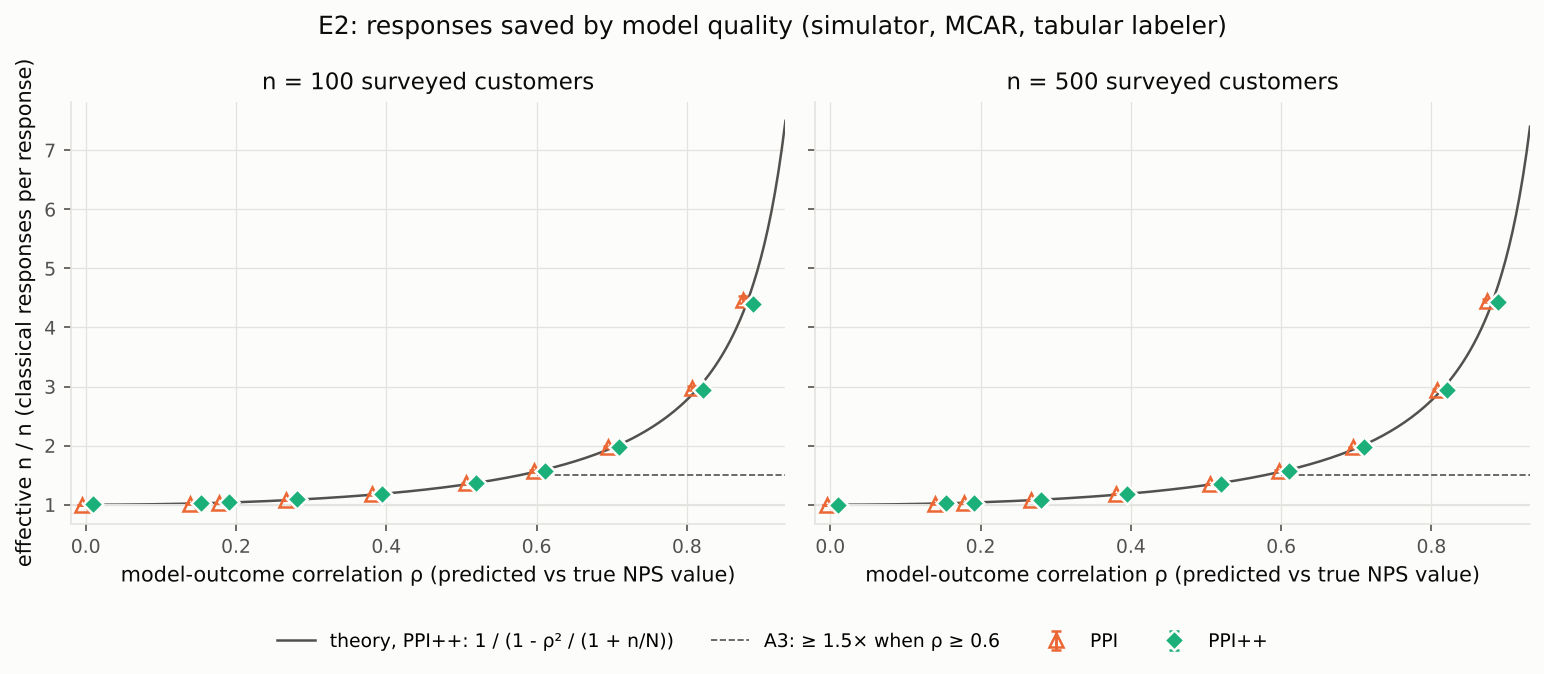
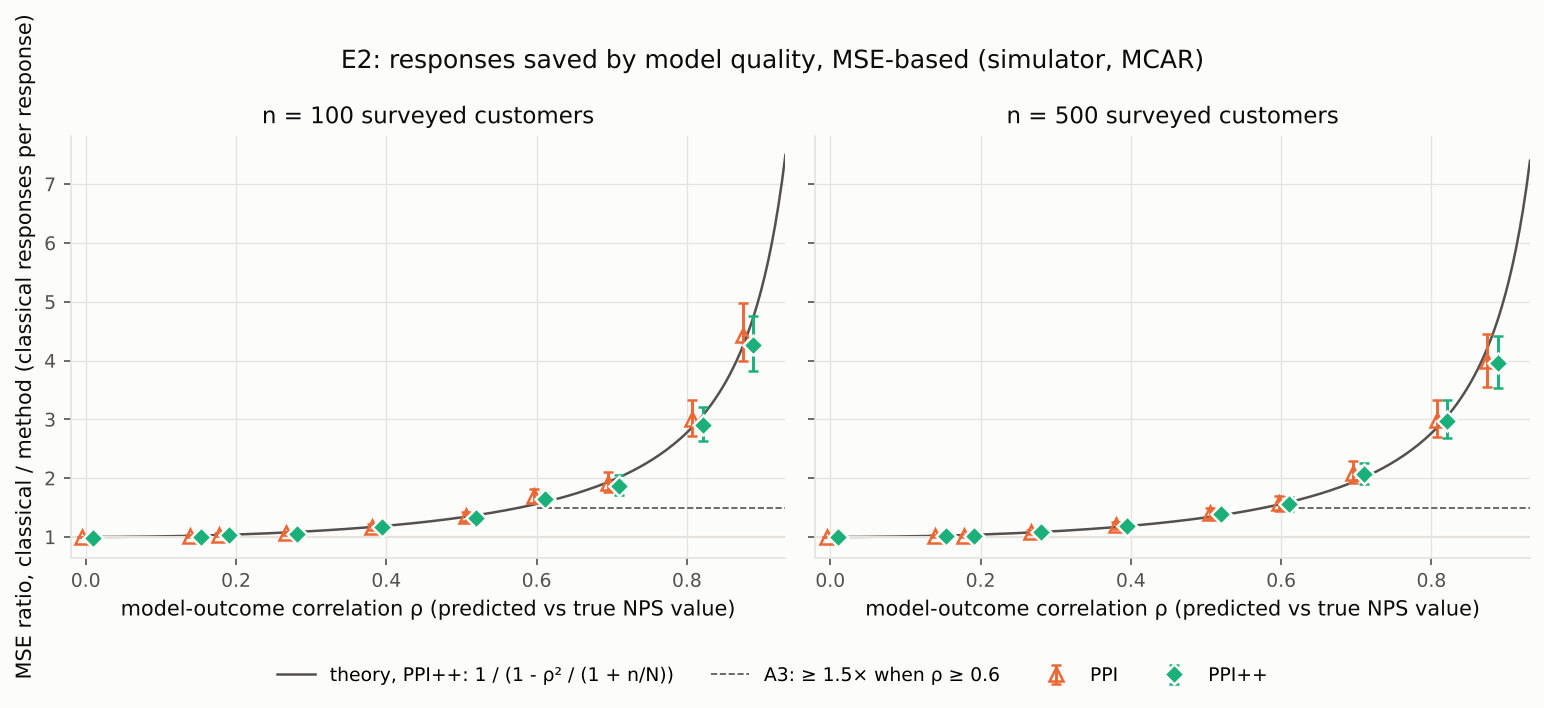
Rerun E2 with A3 judged on MSE and record session 2 status
Claude-Session: https://claude.ai/code/session_01Q6u89m74gV2ZPQ88GmbkB6

diff --git a/docs/results/e02_model_quality_summary.md b/docs/results/e02_model_quality_summary.md
@@ -1,46 +1,46 @@
 # e02_model_quality summary
 
-Generated by `experiments/e02_model_quality.py` from `configs/e02_model_quality.yaml` (1000 replicates, seed 20261013). Effective n / n (widths) = (mean classical width / mean method width)², the docs/PLAN.md definition: the precision each method reports. MSE ratio = MSE_classical / MSE_method: the precision achieved. 95% paired-bootstrap intervals over replicates.
+Generated by `experiments/e02_model_quality.py` from `configs/e02_model_quality.yaml` (1000 replicates, seed 20261013). MSE ratio = MSE_classical / MSE_method: the precision achieved, and the measure A3 is judged on. Effective n / n (widths) = (mean classical width / mean method width)², the docs/PLAN.md n_eff: the precision each method reports (information only for A3). 95% paired-bootstrap intervals over replicates.
 
-| n | signal | ρ | estimator | effective n / n (widths) [95%] | MSE ratio [95%] | theory (PPI++) | theory within MC: widths / MSE | ≥1.5× (ρ ≥ 0.6) | coverage |
-|---|---|---|---|---|---|---|---|---|---|
-| 100 | 0.00 | 0.003 | ppi | 0.999 [0.999, 1.000] | 0.999 [0.997, 1.002] | 1.000 |  |  | 0.888 |
-| 100 | 0.00 | 0.003 | ppi_pp | 1.007 [1.006, 1.008] | 0.983 [0.969, 0.995] | 1.000 | NO / NO |  | 0.883 |
-| 100 | 0.00 | 0.146 | ppi | 1.021 [1.019, 1.022] | 1.016 [1.002, 1.030] | 1.022 |  |  | 0.881 |
-| 100 | 0.00 | 0.146 | ppi_pp | 1.029 [1.027, 1.031] | 1.000 [0.979, 1.022] | 1.022 | NO / yes |  | 0.886 |
-| 100 | 0.15 | 0.184 | ppi | 1.032 [1.030, 1.034] | 1.042 [1.022, 1.064] | 1.035 |  |  | 0.900 |
-| 100 | 0.15 | 0.184 | ppi_pp | 1.041 [1.039, 1.043] | 1.032 [1.007, 1.060] | 1.035 | NO / yes |  | 0.895 |
-| 100 | 0.30 | 0.274 | ppi | 1.081 [1.077, 1.085] | 1.061 [1.028, 1.093] | 1.081 |  |  | 0.896 |
-| 100 | 0.30 | 0.274 | ppi_pp | 1.090 [1.086, 1.093] | 1.052 [1.018, 1.086] | 1.081 | NO / yes |  | 0.892 |
-| 100 | 0.45 | 0.388 | ppi | 1.175 [1.169, 1.181] | 1.173 [1.120, 1.226] | 1.177 |  |  | 0.886 |
-| 100 | 0.45 | 0.388 | ppi_pp | 1.183 [1.177, 1.188] | 1.162 [1.108, 1.214] | 1.177 | NO / yes |  | 0.881 |
-| 100 | 0.60 | 0.513 | ppi | 1.363 [1.354, 1.372] | 1.349 [1.273, 1.432] | 1.357 |  |  | 0.894 |
-| 100 | 0.60 | 0.513 | ppi_pp | 1.367 [1.358, 1.376] | 1.324 [1.249, 1.409] | 1.357 | NO / yes |  | 0.885 |
-| 100 | 0.70 | 0.604 | ppi | 1.573 [1.561, 1.584] | 1.691 [1.585, 1.808] | 1.573 |  |  | 0.895 |
-| 100 | 0.70 | 0.604 | ppi_pp | 1.574 [1.562, 1.586] | 1.645 [1.543, 1.755] | 1.573 | yes / yes | yes | 0.895 |
-| 100 | 0.80 | 0.703 | ppi | 1.985 [1.967, 2.002] | 1.924 [1.763, 2.108] | 1.974 |  |  | 0.895 |
-| 100 | 0.80 | 0.703 | ppi_pp | 1.979 [1.962, 1.997] | 1.867 [1.709, 2.049] | 1.974 | yes / yes | yes | 0.889 |
-| 100 | 0.90 | 0.814 | ppi | 2.973 [2.941, 3.004] | 3.008 [2.719, 3.326] | 2.960 |  |  | 0.891 |
-| 100 | 0.90 | 0.814 | ppi_pp | 2.943 [2.912, 2.974] | 2.909 [2.632, 3.216] | 2.960 | yes / yes | yes | 0.897 |
-| 100 | 0.95 | 0.881 | ppi | 4.473 [4.420, 4.530] | 4.442 [3.993, 4.976] | 4.465 |  |  | 0.893 |
-| 100 | 0.95 | 0.881 | ppi_pp | 4.398 [4.345, 4.455] | 4.259 [3.830, 4.763] | 4.465 | NO / yes | yes | 0.891 |
-| 500 | 0.00 | 0.003 | ppi | 1.000 [1.000, 1.000] | 1.000 [0.998, 1.003] | 1.000 |  |  | 0.909 |
-| 500 | 0.00 | 0.003 | ppi_pp | 1.002 [1.002, 1.002] | 1.001 [0.995, 1.006] | 1.000 | NO / yes |  | 0.909 |
-| 500 | 0.00 | 0.146 | ppi | 1.021 [1.020, 1.021] | 1.023 [1.007, 1.038] | 1.022 |  |  | 0.894 |
-| 500 | 0.00 | 0.146 | ppi_pp | 1.023 [1.022, 1.024] | 1.023 [1.004, 1.041] | 1.022 | NO / yes |  | 0.897 |
-| 500 | 0.15 | 0.184 | ppi | 1.034 [1.033, 1.035] | 1.017 [0.997, 1.037] | 1.035 |  |  | 0.914 |
-| 500 | 0.15 | 0.184 | ppi_pp | 1.037 [1.036, 1.038] | 1.016 [0.992, 1.040] | 1.035 | NO / yes |  | 0.914 |
-| 500 | 0.30 | 0.274 | ppi | 1.079 [1.078, 1.081] | 1.088 [1.053, 1.123] | 1.081 |  |  | 0.905 |
-| 500 | 0.30 | 0.274 | ppi_pp | 1.081 [1.080, 1.083] | 1.084 [1.049, 1.121] | 1.081 | yes / yes |  | 0.905 |
-| 500 | 0.45 | 0.388 | ppi | 1.178 [1.175, 1.180] | 1.196 [1.142, 1.255] | 1.177 |  |  | 0.897 |
-| 500 | 0.45 | 0.388 | ppi_pp | 1.180 [1.177, 1.182] | 1.193 [1.137, 1.255] | 1.177 | NO / yes |  | 0.895 |
-| 500 | 0.60 | 0.513 | ppi | 1.355 [1.351, 1.359] | 1.404 [1.318, 1.491] | 1.356 |  |  | 0.906 |
-| 500 | 0.60 | 0.513 | ppi_pp | 1.356 [1.352, 1.360] | 1.392 [1.310, 1.476] | 1.356 | yes / yes |  | 0.904 |
-| 500 | 0.70 | 0.604 | ppi | 1.575 [1.569, 1.580] | 1.571 [1.449, 1.699] | 1.571 |  |  | 0.915 |
-| 500 | 0.70 | 0.604 | ppi_pp | 1.575 [1.569, 1.581] | 1.560 [1.439, 1.686] | 1.571 | yes / yes | yes | 0.912 |
-| 500 | 0.80 | 0.703 | ppi | 1.972 [1.965, 1.980] | 2.090 [1.919, 2.284] | 1.970 |  |  | 0.914 |
-| 500 | 0.80 | 0.703 | ppi_pp | 1.971 [1.964, 1.979] | 2.078 [1.904, 2.266] | 1.970 | yes / yes | yes | 0.916 |
-| 500 | 0.90 | 0.814 | ppi | 2.939 [2.925, 2.954] | 2.985 [2.692, 3.322] | 2.949 |  |  | 0.911 |
-| 500 | 0.90 | 0.814 | ppi_pp | 2.934 [2.919, 2.948] | 2.979 [2.686, 3.326] | 2.949 | NO / yes | yes | 0.911 |
-| 500 | 0.95 | 0.881 | ppi | 4.450 [4.425, 4.475] | 3.987 [3.555, 4.451] | 4.434 |  |  | 0.877 |
-| 500 | 0.95 | 0.881 | ppi_pp | 4.436 [4.411, 4.460] | 3.966 [3.542, 4.416] | 4.434 | yes / NO | yes | 0.877 |
+| n | signal | ρ | estimator | MSE ratio [95%] | effective n / n (widths) [95%] | theory (PPI++) | A3: theory within MC (MSE) | A3: MSE ratio ≥ 1.5× (ρ ≥ 0.6) | theory within MC (widths, info) | coverage |
+|---|---|---|---|---|---|---|---|---|---|---|
+| 100 | 0.00 | 0.003 | ppi | 0.999 [0.997, 1.002] | 0.999 [0.999, 1.000] | 1.000 |  |  |  | 0.888 |
+| 100 | 0.00 | 0.003 | ppi_pp | 0.983 [0.969, 0.995] | 1.007 [1.006, 1.008] | 1.000 | NO |  | NO | 0.883 |
+| 100 | 0.00 | 0.146 | ppi | 1.016 [1.002, 1.030] | 1.021 [1.019, 1.022] | 1.022 |  |  |  | 0.881 |
+| 100 | 0.00 | 0.146 | ppi_pp | 1.000 [0.979, 1.022] | 1.029 [1.027, 1.031] | 1.022 | yes |  | NO | 0.886 |
+| 100 | 0.15 | 0.184 | ppi | 1.042 [1.022, 1.064] | 1.032 [1.030, 1.034] | 1.035 |  |  |  | 0.900 |
+| 100 | 0.15 | 0.184 | ppi_pp | 1.032 [1.007, 1.060] | 1.041 [1.039, 1.043] | 1.035 | yes |  | NO | 0.895 |
+| 100 | 0.30 | 0.274 | ppi | 1.061 [1.028, 1.093] | 1.081 [1.077, 1.085] | 1.081 |  |  |  | 0.896 |
+| 100 | 0.30 | 0.274 | ppi_pp | 1.052 [1.018, 1.086] | 1.090 [1.086, 1.093] | 1.081 | yes |  | NO | 0.892 |
+| 100 | 0.45 | 0.388 | ppi | 1.173 [1.120, 1.226] | 1.175 [1.169, 1.181] | 1.177 |  |  |  | 0.886 |
+| 100 | 0.45 | 0.388 | ppi_pp | 1.162 [1.108, 1.214] | 1.183 [1.177, 1.188] | 1.177 | yes |  | NO | 0.881 |
+| 100 | 0.60 | 0.513 | ppi | 1.349 [1.273, 1.432] | 1.363 [1.354, 1.372] | 1.357 |  |  |  | 0.894 |
+| 100 | 0.60 | 0.513 | ppi_pp | 1.324 [1.249, 1.409] | 1.367 [1.358, 1.376] | 1.357 | yes |  | NO | 0.885 |
+| 100 | 0.70 | 0.604 | ppi | 1.691 [1.585, 1.808] | 1.573 [1.561, 1.584] | 1.573 |  |  |  | 0.895 |
+| 100 | 0.70 | 0.604 | ppi_pp | 1.645 [1.543, 1.755] | 1.574 [1.562, 1.586] | 1.573 | yes | yes | yes | 0.895 |
+| 100 | 0.80 | 0.703 | ppi | 1.924 [1.763, 2.108] | 1.985 [1.967, 2.002] | 1.974 |  |  |  | 0.895 |
+| 100 | 0.80 | 0.703 | ppi_pp | 1.867 [1.709, 2.049] | 1.979 [1.962, 1.997] | 1.974 | yes | yes | yes | 0.889 |
+| 100 | 0.90 | 0.814 | ppi | 3.008 [2.719, 3.326] | 2.973 [2.941, 3.004] | 2.960 |  |  |  | 0.891 |
+| 100 | 0.90 | 0.814 | ppi_pp | 2.909 [2.632, 3.216] | 2.943 [2.912, 2.974] | 2.960 | yes | yes | yes | 0.897 |
+| 100 | 0.95 | 0.881 | ppi | 4.442 [3.993, 4.976] | 4.473 [4.420, 4.530] | 4.465 |  |  |  | 0.893 |
+| 100 | 0.95 | 0.881 | ppi_pp | 4.259 [3.830, 4.763] | 4.398 [4.345, 4.455] | 4.465 | yes | yes | NO | 0.891 |
+| 500 | 0.00 | 0.003 | ppi | 1.000 [0.998, 1.003] | 1.000 [1.000, 1.000] | 1.000 |  |  |  | 0.909 |
+| 500 | 0.00 | 0.003 | ppi_pp | 1.001 [0.995, 1.006] | 1.002 [1.002, 1.002] | 1.000 | yes |  | NO | 0.909 |
+| 500 | 0.00 | 0.146 | ppi | 1.023 [1.007, 1.038] | 1.021 [1.020, 1.021] | 1.022 |  |  |  | 0.894 |
+| 500 | 0.00 | 0.146 | ppi_pp | 1.023 [1.004, 1.041] | 1.023 [1.022, 1.024] | 1.022 | yes |  | NO | 0.897 |
+| 500 | 0.15 | 0.184 | ppi | 1.017 [0.997, 1.037] | 1.034 [1.033, 1.035] | 1.035 |  |  |  | 0.914 |
+| 500 | 0.15 | 0.184 | ppi_pp | 1.016 [0.992, 1.040] | 1.037 [1.036, 1.038] | 1.035 | yes |  | NO | 0.914 |
+| 500 | 0.30 | 0.274 | ppi | 1.088 [1.053, 1.123] | 1.079 [1.078, 1.081] | 1.081 |  |  |  | 0.905 |
+| 500 | 0.30 | 0.274 | ppi_pp | 1.084 [1.049, 1.121] | 1.081 [1.080, 1.083] | 1.081 | yes |  | yes | 0.905 |
+| 500 | 0.45 | 0.388 | ppi | 1.196 [1.142, 1.255] | 1.178 [1.175, 1.180] | 1.177 |  |  |  | 0.897 |
+| 500 | 0.45 | 0.388 | ppi_pp | 1.193 [1.137, 1.255] | 1.180 [1.177, 1.182] | 1.177 | yes |  | NO | 0.895 |
+| 500 | 0.60 | 0.513 | ppi | 1.404 [1.318, 1.491] | 1.355 [1.351, 1.359] | 1.356 |  |  |  | 0.906 |
+| 500 | 0.60 | 0.513 | ppi_pp | 1.392 [1.310, 1.476] | 1.356 [1.352, 1.360] | 1.356 | yes |  | yes | 0.904 |
+| 500 | 0.70 | 0.604 | ppi | 1.571 [1.449, 1.699] | 1.575 [1.569, 1.580] | 1.571 |  |  |  | 0.915 |
+| 500 | 0.70 | 0.604 | ppi_pp | 1.560 [1.439, 1.686] | 1.575 [1.569, 1.581] | 1.571 | yes | yes | yes | 0.912 |
+| 500 | 0.80 | 0.703 | ppi | 2.090 [1.919, 2.284] | 1.972 [1.965, 1.980] | 1.970 |  |  |  | 0.914 |
+| 500 | 0.80 | 0.703 | ppi_pp | 2.078 [1.904, 2.266] | 1.971 [1.964, 1.979] | 1.970 | yes | yes | yes | 0.916 |
+| 500 | 0.90 | 0.814 | ppi | 2.985 [2.692, 3.322] | 2.939 [2.925, 2.954] | 2.949 |  |  |  | 0.911 |
+| 500 | 0.90 | 0.814 | ppi_pp | 2.979 [2.686, 3.326] | 2.934 [2.919, 2.948] | 2.949 | yes | yes | NO | 0.911 |
+| 500 | 0.95 | 0.881 | ppi | 3.987 [3.555, 4.451] | 4.450 [4.425, 4.475] | 4.434 |  |  |  | 0.877 |
+| 500 | 0.95 | 0.881 | ppi_pp | 3.966 [3.542, 4.416] | 4.436 [4.411, 4.460] | 4.434 | NO | yes | yes | 0.877 |

diff --git a/docs/progress/phase-3.md b/docs/progress/phase-3.md
@@ -195,7 +195,7 @@ available, and **$0 was spent**. Nothing is mocked in place of real results.
 | Criterion | Status |
 |---|---|
 | All labels cached | ✗ Blocked: no CFPB data (network), no embedding model (network), no API key |
-| LLM compute and items reported (was "spend under cap") | Local model, so $0 by construction. Item cap 10,000. The E6 run writes `docs/results/e06_cfpb_llm_report.json` (items scored, invalid, seconds) |
+| LLM compute and items reported (was "spend under cap") | Local model, so $0 by construction. Item cap 5,000 (was 10,000; see the session 2 update). The E6 run writes `docs/results/e06_cfpb_llm_report.json` (items scored, invalid, seconds) |
 | E6 coverage reported for each labeler | ✗ Not run |
 | `make test`, `make lint`, `make test-slow` | Pass: 1,305 fast tests, lint clean, slow suite 15/15 (4 min 43 s; estimators unchanged since) |
 
@@ -290,3 +290,120 @@ note.
 2. Pool size (above).
 
 Phase 3 stops here: Gate G3 cannot be completed until the network access is in place.
+
+---
+
+## Update, session 2 (2026-10-11): reviewer decisions applied; still blocked on network
+
+### Decisions received
+
+1. **A3 is judged on the MSE ratio** (MSE_classical / MSE_PPI++).
+2. **E6 pool size: 5,000.**
+3. The environment's network policy was updated.
+
+### What changed
+
+| Change | Files |
+|---|---|
+| A3 is judged on the MSE ratio. `docs/PLAN.md` A3 now says so; the width-based n_eff is still reported alongside. E2's summary leads with the MSE ratio. Its A3 columns (`a3_within_mc`, `a3_threshold_met`) use MSE, and the width-based theory check is kept as `theory_within_mc_widths` (information only). The headline E2 figure is now MSE-based (`e02_model_quality.png`, with the A3 line); the width-based figure moved to `e02_model_quality_widths.png` | `experiments/e02_model_quality.py`, `viz/figures.py` (`metric="mse" \| "widths"`), `tests/unit/test_e02.py` (new, 3 tests), `docs/PLAN.md` |
+| E2 rerun (1,000 replicates, same seed, 489 s). Every value matches the previous run exactly; only the column names and order changed | `docs/results/e02_model_quality*` |
+| E6 pool 5,000, and the LLM's cumulative item cap set to 5,000 to match | `configs/e06_cfpb.yaml`, `configs/llm.yaml` |
+| The CFPB loader reads a Parquet mirror and cross-checks it against the official export (see "CFPB export changed") | `data/cfpb.py`, `tests/unit/test_cfpb.py` (5 new tests) |
+| Fixed the stale Makefile comment on E6 (`--run-llm`, not `--allow-llm-calls`) | `Makefile` |
+
+### A3 result (MSE-based), from `docs/results/e02_model_quality_summary.csv`
+
+- **At least 1.5× when ρ ≥ 0.6: met at all 8 points.** The MSE ratios are 1.645, 1.867, 2.909 and
+  4.259 (n = 100) and 1.560, 2.078, 2.979 and 3.966 (n = 500). The smallest, 1.560 at n = 500,
+  ρ = 0.604, has a bootstrap interval of [1.439, 1.686], so that point clears 1.5× on its point
+  estimate, but not with Monte Carlo margin.
+- **Within Monte Carlo error of the theory: 18 of 20 points.** The two misses:
+  - n = 100, ρ = 0.003: 0.983 [0.969, 0.995] against theory 1.000. With a useless model,
+    PPI++ is about 1.7% *less* efficient than classical at n = 100, from the noise in
+    estimating λ̂ on the same 100 responses. This is an O(1/n) effect that the
+    asymptotic theory leaves out. At n = 500 the same point is 1.001 [0.995, 1.006].
+  - n = 500, ρ = 0.881: 3.966 [3.542, 4.416] against theory 4.434. It misses by 0.018 on
+    the upper bound. The n = 100 point at the same ρ is inside (4.259 [3.830, 4.763]).
+    I read this as Monte Carlo chance (1 in 20 is expected at 95%), not a systematic gap.
+- Coverage is unaffected: all 60 coverage cells are inside the A1 band.
+
+### CFPB export changed: narrative and dispute columns are gone
+
+With `files.consumerfinance.gov` now reachable, the official export
+(`complaints.csv.zip`, 353 MB, last modified 2026-10-11) downloads. But **it no longer
+has the "Consumer complaint narrative", "Consumer consent provided?" or "Consumer
+disputed?" columns.** It has 15 columns and about 26 million rows. Without them the benchmark
+cannot be built from the official file. The CFPB search API (`www.consumerfinance.gov`)
+is still blocked here, so I could not check whether it still serves them.
+
+Two public mirrors of the older export still carry both fields:
+
+| Mirror | License | Rows | Columns |
+|---|---|---|---|
+| `BEE-spoke-data/consumer-finance-complaints`, `has-text` subset (3 Parquet shards, 925 MB) | CC0-1.0 | rows with a narrative | identical to the original export |
+| `davidheineman/consumer-finance-complaints-large` | Apache-2.0 | 7.2 M | API field names |
+
+The loader now defaults to the first one (the same column names, so no remapping). Its
+three shards are pinned by the SHA-256s that Hugging Face publishes, and
+`download` refuses a file that does not match. Because the mirror is a third-party copy, `build` records
+`crosscheck` in the manifest. For every kept complaint, it looks the complaint id up in
+the current official export and counts how many have identical date, product, issue and
+state. Narrative and dispute cannot be checked against the official source any more.
+Comparing them against the second mirror is a further check I can add if you want it.
+
+**This changes the data source from the one in the spec, so it needs your OK.** It is still
+public CFPB data, and nothing is sent to an external API, so it is within section 9.
+
+### Still blocked: Hugging Face's file CDN
+
+Hugging Face now redirects every weight and dataset download from `huggingface.co` to
+**`us.aws.cdn.hf.co`**, and the network policy denies that host (403 on CONNECT). The old
+hosts (`cdn-lfs.huggingface.co`, `cas-bridge.xethub.hf.co`) are no longer used. This blocks
+the MiniLM embedding model, the Qwen2.5-0.5B weights and the CFPB mirror. Small metadata
+files from `huggingface.co` itself work.
+
+### New statistical caveat: the finite-pool effect at pool 5,000
+
+E6's truth is the dispute rate of the 5,000-complaint pool, and each replicate draws n
+complaints from that pool *without replacement*. The intervals use the usual iid variance
+with no finite-population correction. They are therefore conservative for the pool rate,
+by a factor of about √(1 − n/5000) on the true standard error. For classical, the expected
+coverage of a nominal 90% interval is 2Φ(1.645 / √(1 − n/N_pool)) − 1:
+
+| n | pool 5,000 | pool 10,000 |
+|---|---|---|
+| 50 | 0.902 | 0.901 |
+| 100 | 0.903 | 0.902 |
+| 200 | 0.907 | 0.903 |
+| 500 | 0.917 | 0.909 |
+| 1,000 | **0.934** | 0.917 |
+
+PPI and PPI++ are conservative in the same way: the error variance relative to the pool
+rate is (1 − n/N_pool)·S²(r − (n/N)f)/n, which is below the reported S_f²/N + S_r²/n. So at pool
+5,000, E6 should show coverage **above** the A1 band at n = 1,000, and borderline at
+n = 500. This is over-coverage (valid but too wide), not a failure, and A1 formally
+covers the simulator only. I did not account for it when I offered 5,000 against
+10,000 as a pure runtime trade-off last session.
+
+### Gate G3 status (session 2)
+
+| Criterion | Status |
+|---|---|
+| All labels cached | ✗ Blocked: `us.aws.cdn.hf.co` (models and mirror), and the CFPB source decision |
+| LLM compute and items reported | Not run. Pool and cap are both 5,000 (about 1.2 h of CPU scoring, projected) |
+| E6 coverage reported for each labeler | ✗ Not run |
+| `make test`, `make lint` | Pass: 1,313 fast tests, lint clean. `make test-slow` not rerun (no estimator changes) |
+
+### What I need from you
+
+1. **Network:** add `us.aws.cdn.hf.co` to Allowed domains. Optionally also add
+   `www.consumerfinance.gov`, so I can check whether the official API still serves
+   narratives and disputes.
+2. **CFPB source:** OK to use the CC0 Hugging Face mirror, with the official-export
+   cross-check in the manifest?
+3. **Pool size and the finite-pool effect** (table above): keep 5,000 and report the
+   n = 1,000 over-coverage as expected and explained; or go to 10,000 (about 2.5 h of
+   local scoring); or keep 5,000 and drop n = 1,000 from E6.
+
+Once those are settled, the next session runs `make cfpb`, E6 with all three labelers
+(`--run-llm`), and writes the G3 note.
